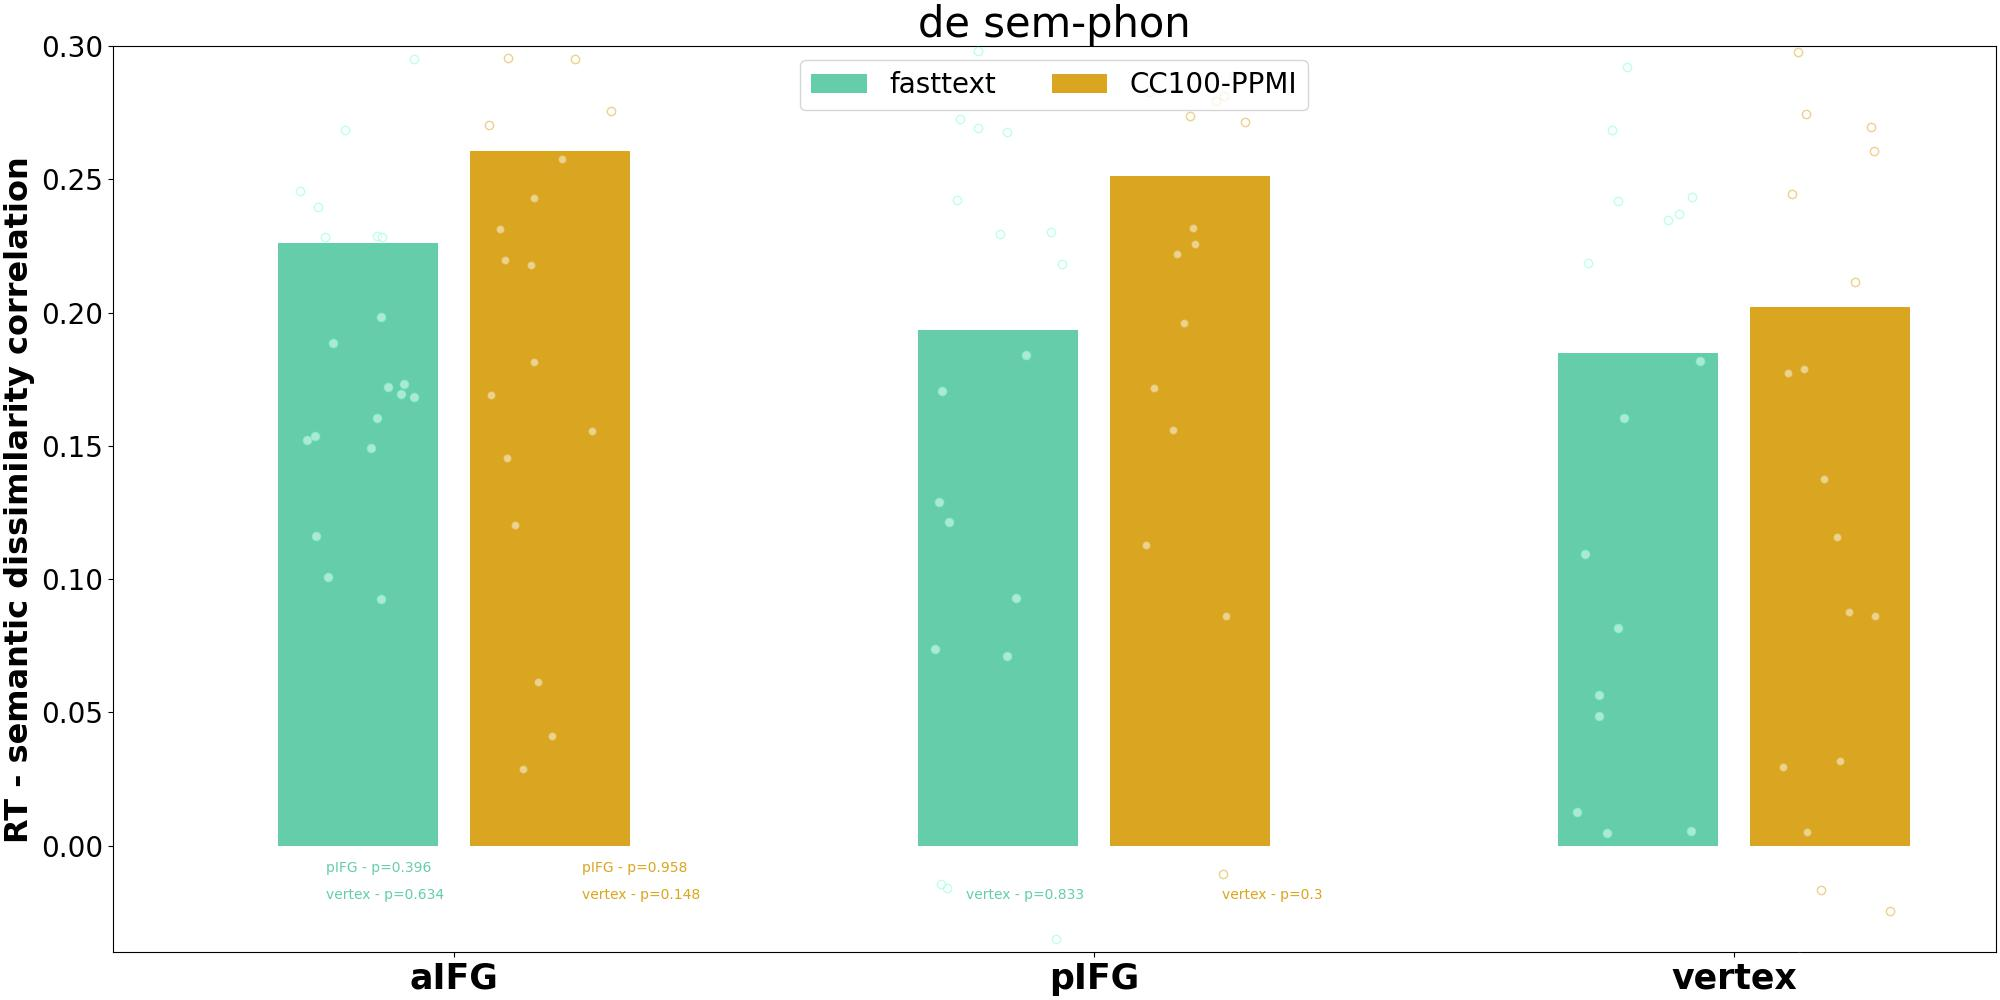
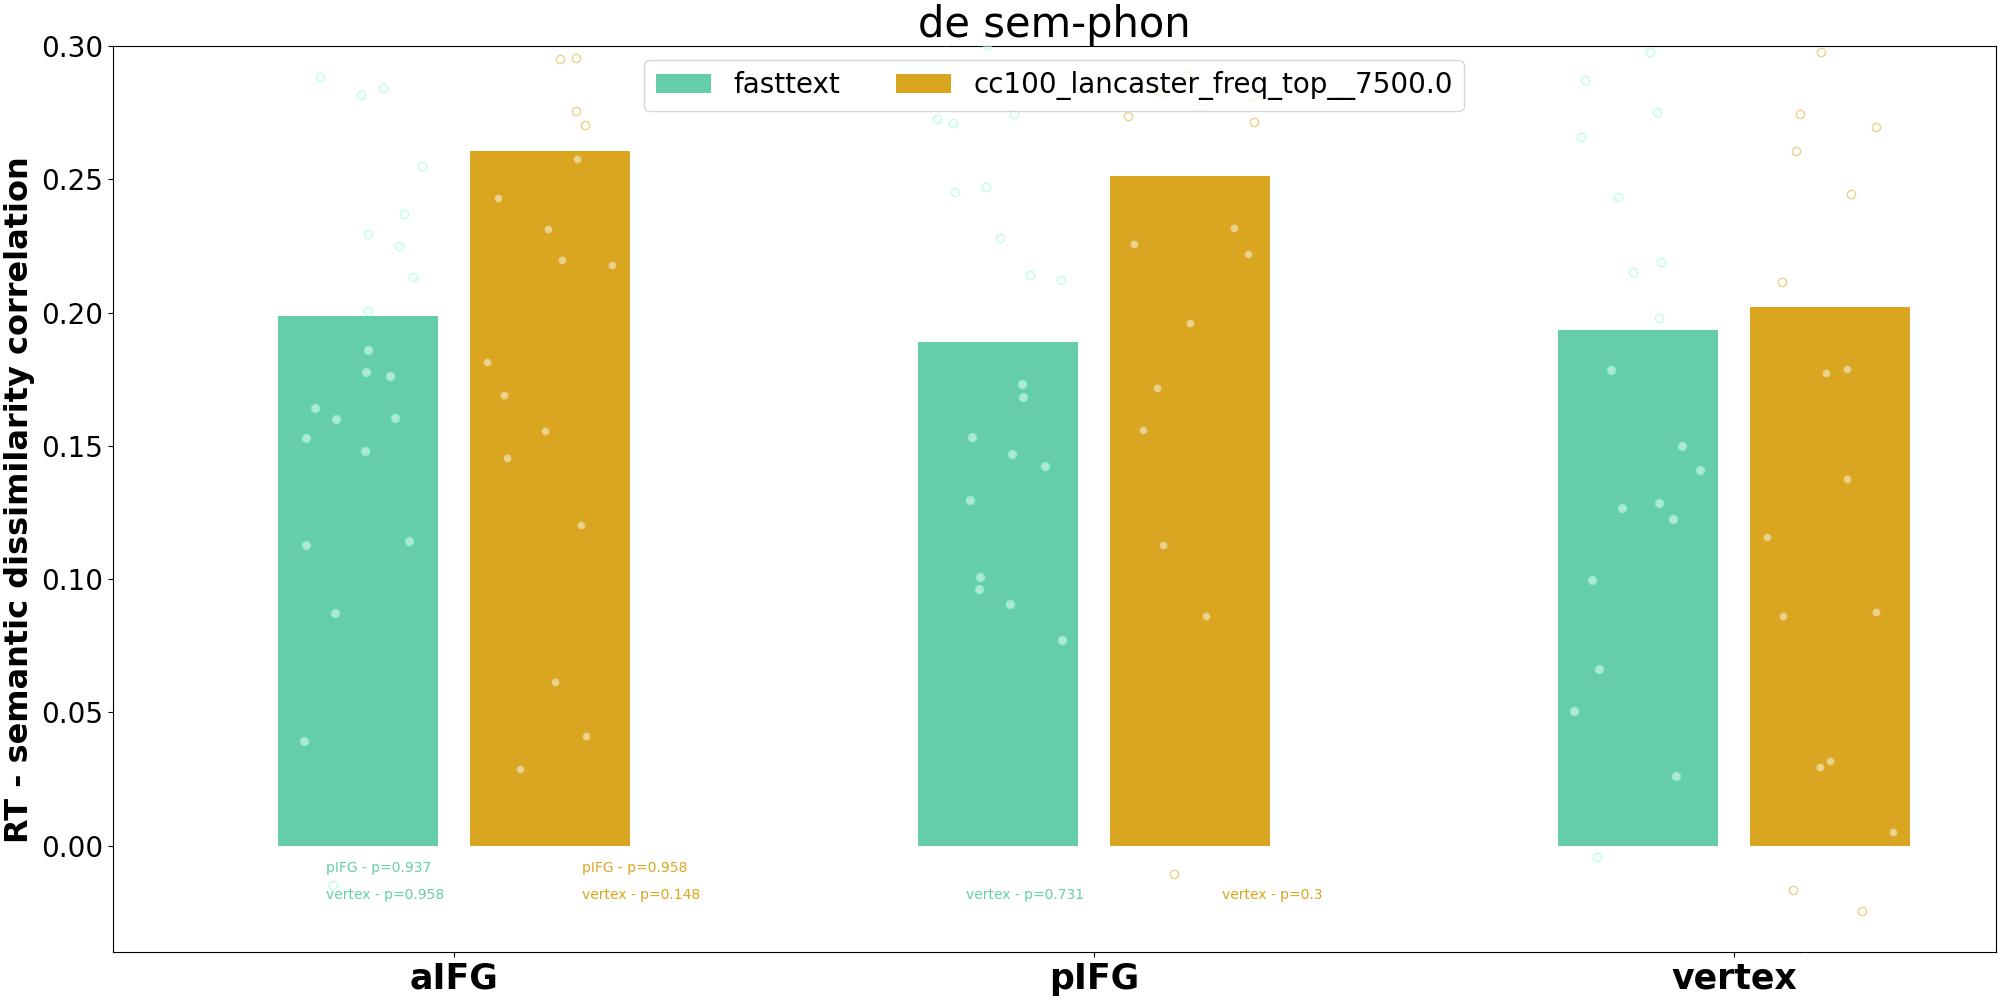
corrected models

diff --git a/word_similarity_relatedness/plot_tms_comparisons.py b/word_similarity_relatedness/plot_tms_comparisons.py
@@ -73,6 +73,7 @@ for l, l_data in results.items():
                 model_results[l][model].append(vals[1])
 
 lang_best = dict()
+overall_best = dict()
 for l, l_data in model_results.items():
     #print(l_data.keys())
     #sorted_ranks = sorted({k : numpy.average(v) for k, v in l_data.items()}.items(), key=lambda item : item[1])
@@ -82,6 +83,17 @@ for l, l_data in model_results.items():
     best_ft = min([r_i for r_i, r in enumerate(sorted_ranks) if 'fasttext' in r[0] and 'concept' not in r[0]])
     best_other = min([r_i for r_i, r in enumerate(sorted_ranks) if 'fasttext' not in r[0] and 'concept' not in r[0]])
     lang_best[l] = (sorted_ranks[best_ft][0], sorted_ranks[best_other][0])
+    if l == 'en':
+        continue
+    for rank, model in enumerate(sorted_ranks):
+        if model[0] not in overall_best.keys():
+            overall_best[model[0]] = [rank]
+        else:
+            overall_best[model[0]].append(rank)
+overall_sorted_ranks = sorted({k : numpy.average(v) for k, v in overall_best.items()}.items(), key=lambda item : item[1])
+print(overall_sorted_ranks[:10])
+best_ft = overall_sorted_ranks[min([r_i for r_i, r in enumerate(overall_sorted_ranks) if 'fasttext' in r[0] and 'concept' not in r[0]])][0]
+best_other = overall_sorted_ranks[min([r_i for r_i, r in enumerate(overall_sorted_ranks) if 'fasttext' not in r[0] and 'concept' not in r[0]])][0]
 
 for l, l_data in results.items():
     if l == 'en':
@@ -109,10 +121,10 @@ for l, l_data in results.items():
                   )
         xs = [w.split('_tms_')[1] for w in curr_ts]
         ax.bar(0, 0, color='mediumaquamarine', label='fasttext')
-        ax.bar(0, 0, color='goldenrod', label='CC100-PPMI')
+        ax.bar(0, 0, color='goldenrod', label=best_other)
         ### results for fasttext
         #ft_model = lang_best[l][0]
-        ft_model = 'fasttext'
+        ft_model = best_ft
         ys = [l_data[c_t][ft_model] for c_t in curr_ts]
         ax.bar(
                [x-0.15 for x in range(len(xs))],
@@ -153,7 +165,7 @@ for l, l_data in results.items():
                             color='mediumaquamarine',
                             )
         ### results for other model
-        other_model = lang_best[l][1]
+        other_model = best_other
         first_part = '_'.join(other_model.split('_')[:-1])
         second_part = float(other_model.split('_')[-1])
         ys = [l_data[c_t][first_part][second_part] for c_t in curr_ts]

diff --git a/word_similarity_relatedness/plot_eval.py b/word_similarity_relatedness/plot_eval.py
@@ -62,6 +62,8 @@ for lang, l_res in results.items():
                           'concept' not in k and \
                           ('top' in k or '_hi-' in k or '_lo-' in k)
                           }
+        print(lang)
+        print(others.keys())
         all_vals = [val[0] for v in others.values() for val in v] + [0.]
         ax.hlines(
                   y=0,
